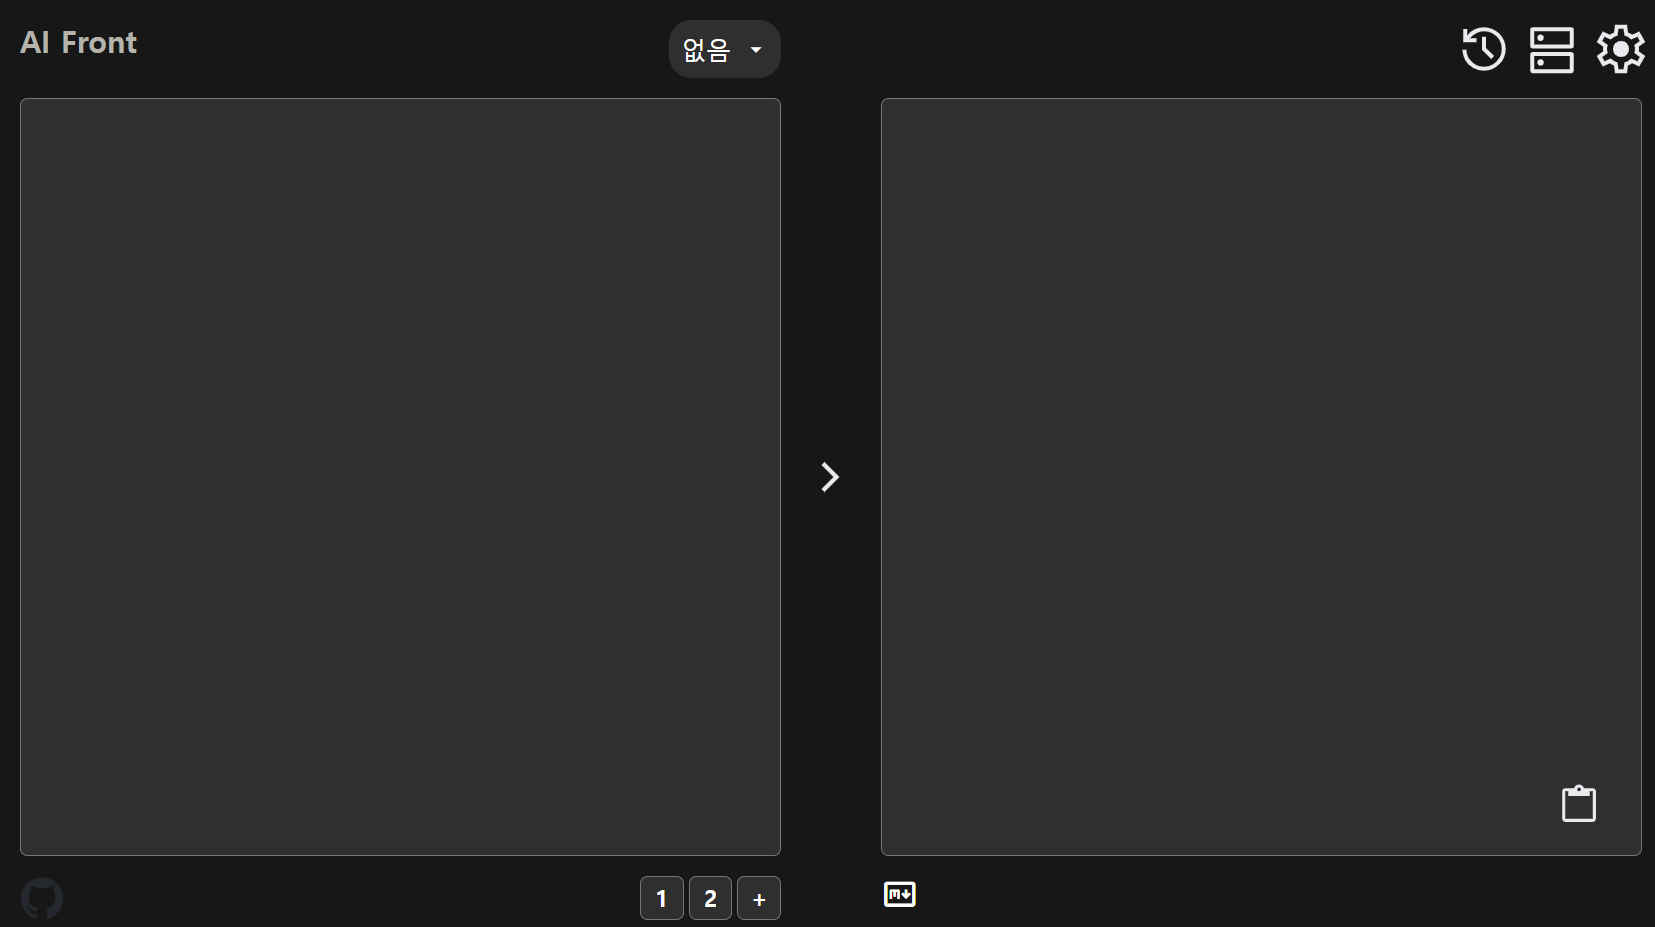
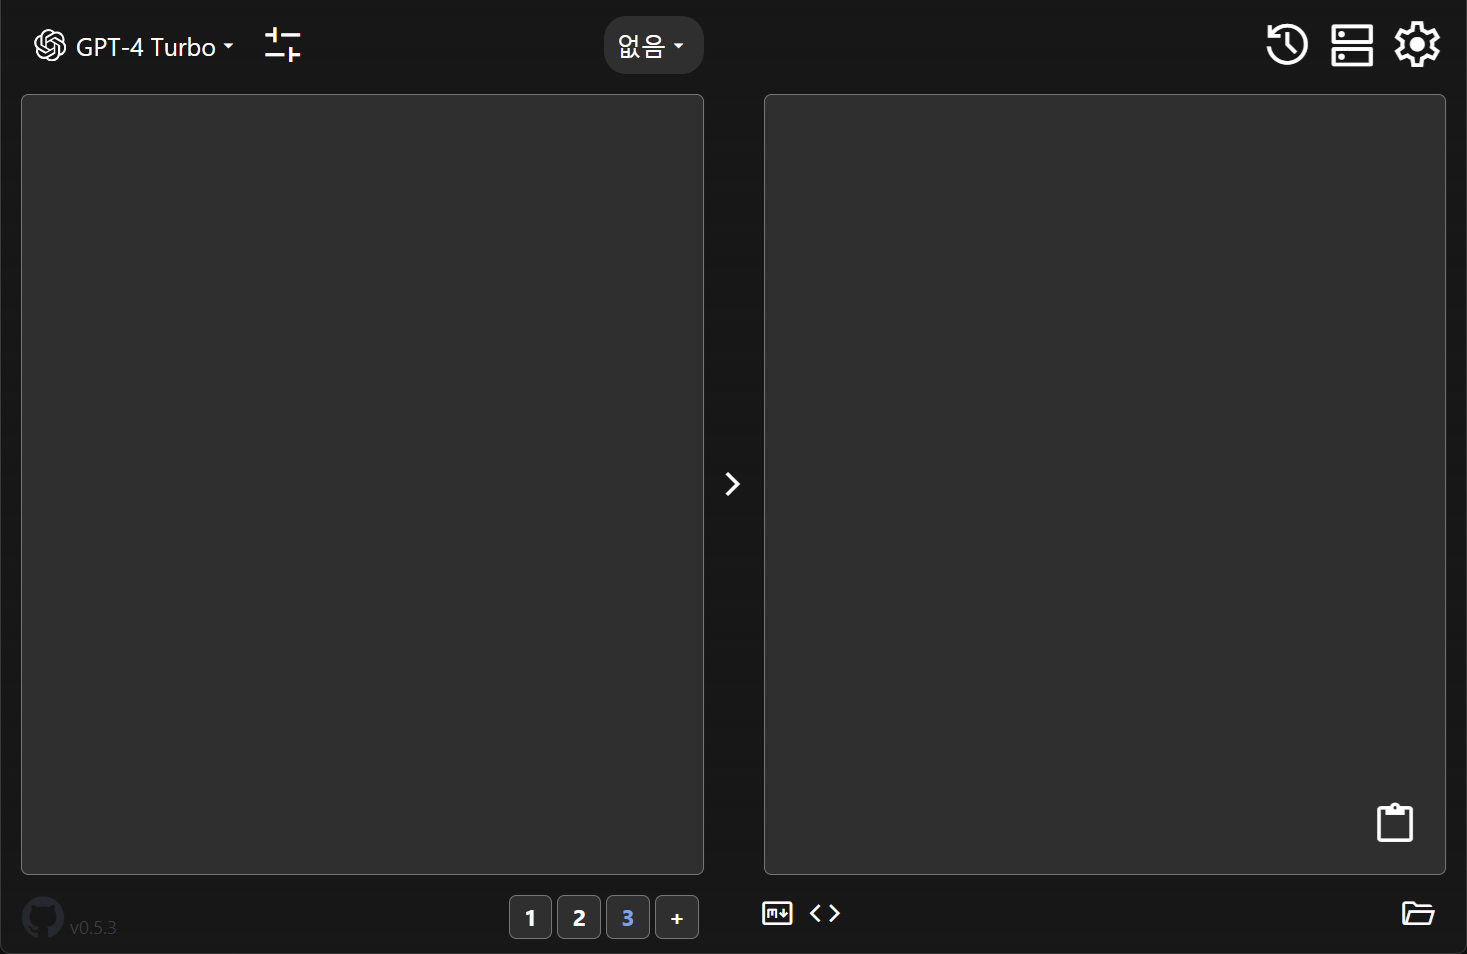
DOCS : 설명 갱신

diff --git a/README.md b/README.md
@@ -2,29 +2,23 @@
 
 ![front](/img/01.png)
 
-React.js 기반 챗봇 프론트엔드 예제
-
-별도의 백엔드 없이 단독으로 동작합니다.
+React.js + Electron 챗봇 프론트엔드
 
 ## 설치 및 사용
 
 - [Relase](https://github.com/hve4638/ai-front/releases)
 - [위키](https://github.com/hve4638/ai-front/wiki/How-to-use) 참조
 
-## 사용 방법
+## 모델 API 설정
 
 ![setting](/img/02.png)
 
-우측 상단의 아이콘을 클릭해 설정 창에서 확인할 수 있습니다.
+좌측 상단의 아이콘을 클릭해 모델 별 필요한 API 키를 입력할 수 있습니다.
 
-**필요한 설정**
-- `모델` : 사용할 모델을 지정합니다.
-    - 현재 사용가능한 모델 : *Gemini* 및 *GPT* 계열 모델 일부
-- `API` : 각 공급사에서 제공하는 API키
-- `응답 토큰 제한` : 최대 응답 가능한 토큰의 수. 모델별로 토큰 단위가 상이합니다.
-    - 일반적으로 영어는 단어 당, 한글은 글자 당 토큰 하나이며 모델에 따라 더 효율적이거나 비효율적으로 토큰을 처리합니다.
-- `온도`와 `top-p` : AI 응답의 랜덤성에 관련된 설정입니다.
-    - 일반적으로 0~1.0 사이 값을 가지며 창의력을 요구하거나 범용적인 작업은 1.0, 번역과 같이 정확도를 요구하는 작업은 더 낮은 값을 사용합니다.
+*모델 별 API를 얻기위한 각 공급자 별 콘솔*
+- *Google (Gemini)* : [https://console.cloud.google.com](https://console.cloud.google.com/)
+- *Anthropic (Claude)* : [https://console.anthropic.com](https://console.anthropic.com/)
+- *OpenAI (GPT)* : [https://platform.openai.com](https://platform.openai.com/)
 
 ## prompts/list.json 및 프롬프트 구조 가이드
 
